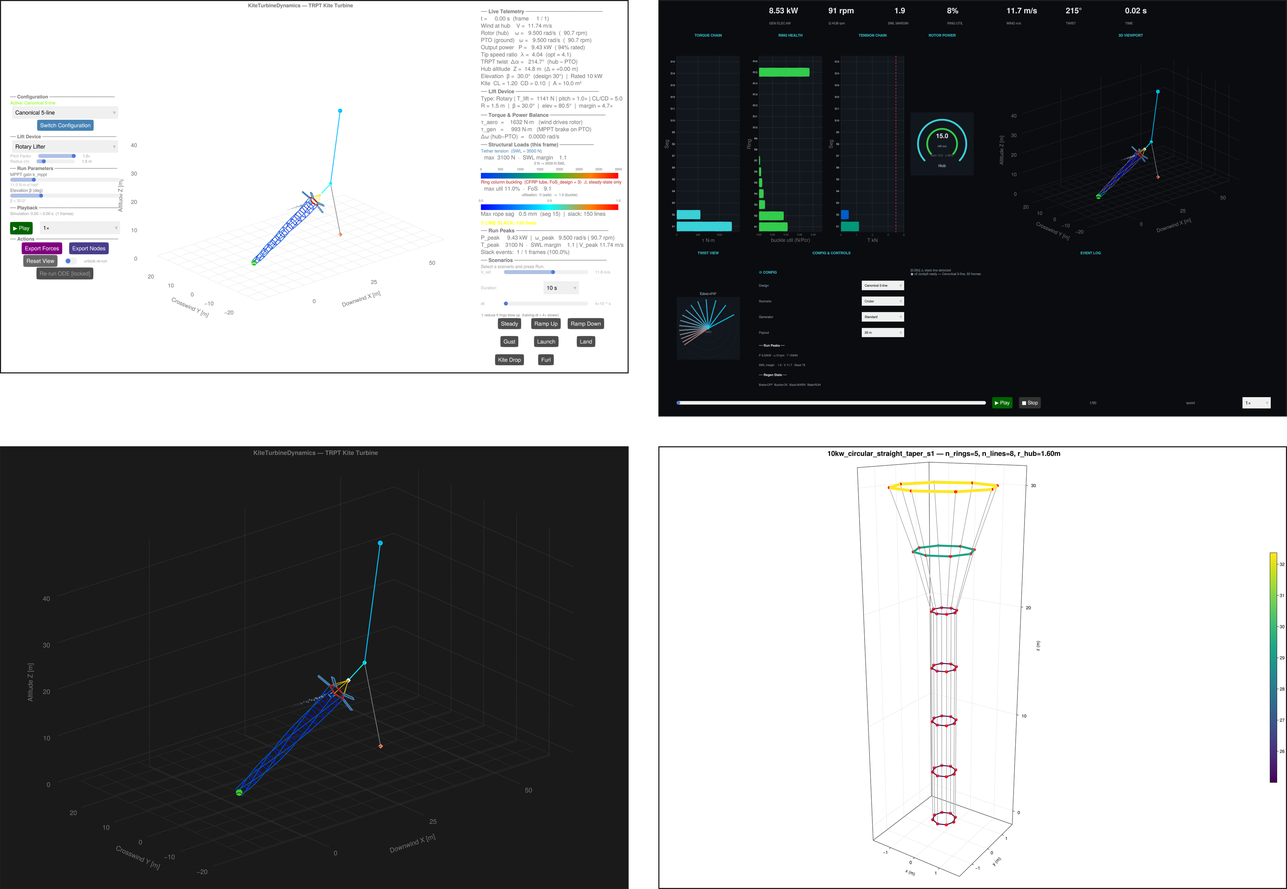
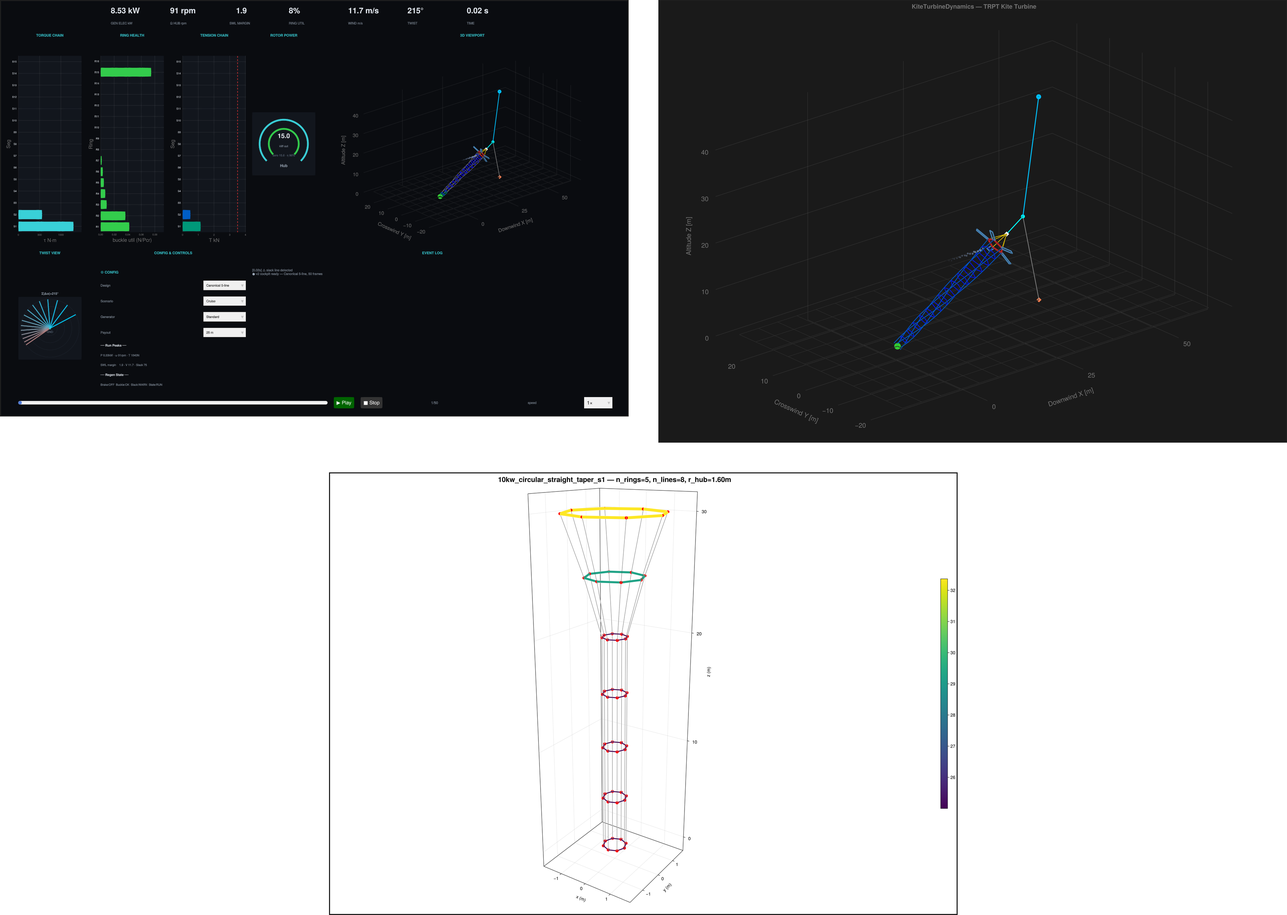
docs(reporting): the Figure 12 gallery prints three frames - the v1 dashboard leaves the plate at the founder call, because a whole window is its own writing and the reader has no use for it. The file stays in captures/ for the Figure 11 strip, and the stamp drops its row and hash. Row 1 holds the t

diff --git a/docs/reporting/figures/instrument-gallery/captures/stamp.py b/docs/reporting/figures/instrument-gallery/captures/stamp.py
@@ -1,14 +1,18 @@
 #!/usr/bin/python3
-"""stamp.py — the provenance stamp for Figure 12's four-panel instrument gallery.
+"""stamp.py — the provenance stamp for Figure 12's three-panel instrument gallery.
 
-Reads the four capture files in this directory, hashes them and the
+Reads the three capture files in this directory, hashes them and the
 renderers that made them, and writes `stamp.json` (machine) and `captures.md`
 (the line that travels with the plate). Nothing here draws.
 
-One pass at one commit: all four frames were rendered from the tree at the
+One pass at one commit: all three frames were rendered from the tree at the
 commit this stamp records, and each row carries the renderer it came from and
 that renderer's own hash, so a reader can re-run any one panel without
 re-running the others.
+
+The plate composes those frames and re-renders none of them, so a recomposition
+leaves every frame hash and the pass commit alone. Change `PASS` only when a
+frame is re-rendered.
 
 Run:
     /usr/bin/python3 docs/reporting/figures/instrument-gallery/captures/stamp.py
@@ -27,6 +31,11 @@ HERE = Path(__file__).resolve().parent
 REPO = HERE.parents[4]
 
 ERA = "post-95c385d_wind-authority"
+
+# The one render pass that produced these frame bytes. A recomposition of the
+# plate reads them and re-renders nothing, so the stamp records the pass and
+# not the tree it happens to run in; `git show 4749828` is the check.
+PASS = "4749828"
 
 # The one panel that reads a campaign row: the winner cartography decodes its
 # ring stack from this archive. It prints no value from it (the title carries
@@ -53,23 +62,15 @@ RENDERERS = {
 }
 
 # Printed geometry: box 85 x 59.89 mm, fit by the binding dimension, nothing
-# upsampled. Row 1 is v1 + v2, row 2 is the twisted-state viewport + the 3D
-# cartography, flush to 0 and 174.00 mm inside a 174 mm measure, 4 mm gutter.
+# upsampled. Row 1 is v2 + the twisted-state viewport; row 2 is the 3D
+# cartography alone, centred, because a third panel in two 85 mm columns leaves
+# one cell empty. The grid is flush to 0 and 174.00 mm inside a 174 mm measure
+# with a 4 mm gutter.
 BOX_MM = [85.0, 59.89]
 MEASURE_MM = 174.0
 GUTTER_MM = 4.0
 
 CAPTURES = {
-    "dashboard-v1-head.png": dict(
-        interface="v1 dashboard",
-        picture="whole window",
-        renderer="v1_v2",
-        px_per_unit=1.25,
-        shot="1600 x 950 logical units, saved at px_per_unit 1.25",
-        row=1,
-        flags="No flags. The defaults of render-captures-head.jl print this frame.",
-        note="byte-identical to Figure 11's member; reproduced at this commit as the re-stamp control",
-    ),
     "dashboard-v2-head.png": dict(
         interface="v2 cockpit",
         picture="whole window",
@@ -78,7 +79,10 @@ CAPTURES = {
         shot="1780 x 1180 logical units, one frame of a 1.0 s canonical run (50 frames, SAVE_EVERY 500, DT 4e-5)",
         row=1,
         flags="No flags. The defaults of render-captures-head.jl print this frame.",
-        note="byte-identical to Figure 11's member; reproduced at this commit as the re-stamp control",
+        note=(
+            "byte-identical to Figure 11's member; reproduced at this commit as "
+            "the re-stamp control. It is the set's one whole cockpit window"
+        ),
     ),
     "dashboard-twisted-state-head.png": dict(
         interface="dashboard 3D viewport, settled twisted state",
@@ -90,10 +94,10 @@ CAPTURES = {
             "device columns 613..3308. The cut lands on the measured ink boundaries, so "
             "both inside margins carry no ink and the scene prints every pixel it draws"
         ),
-        row=2,
+        row=1,
         flags=(
-            "No flags. figsize=(2037, 950) at px_per_unit 2 fixes the window, so "
-            "the ink boundaries crop-twisted-cell.py cuts on hold. The "
+            "No flags. figsize=(2037, 950) at px_per_unit 2 fixes the window. "
+            "The ink boundaries crop-twisted-cell.py cuts on hold. The "
             "build_dashboard figsize default is (1600, 950)."
         ),
         state=dict(
@@ -169,9 +173,9 @@ def fitted_mm(w_px: int, h_px: int) -> tuple[float, float, float]:
 
 
 def main() -> None:
-    head = git("rev-parse", "HEAD")
-    branch = git("rev-parse", "--abbrev-ref", "HEAD")
-    head_time = git("log", "-1", "--format=%ad", "--date=iso")
+    head = git("rev-parse", PASS)
+    branch = git("name-rev", "--name-only", "--refs=refs/heads/*", PASS).split("~")[0]
+    head_time = git("log", "-1", "--format=%ad", "--date=iso", PASS)
 
     renderers = {k: {"path": str(p.relative_to(REPO)), "sha256": sha256(p)}
                  for k, p in RENDERERS.items()}
@@ -207,8 +211,8 @@ def main() -> None:
     stamp = {
         "slug": "figure-12-instrument-gallery",
         "purpose": (
-            "The four-panel instrument gallery of Figure 12 (section 9): v1 dashboard, "
-            "v2 cockpit, dashboard twisted-state viewport, 10 kW winner cartography. "
+            "The three-panel instrument gallery of Figure 12 (section 9): v2 cockpit, "
+            "dashboard twisted-state viewport, 10 kW winner cartography. "
             "One pass, one commit."
         ),
         "head": head,
@@ -217,18 +221,18 @@ def main() -> None:
         "era": ERA,
         "reads_dataset": True,
         "dataset_note": (
-            "Three panels read no dataset at all. v1 and v2 render the 10 kW canonical "
+            "Two panels read no dataset at all. v2 renders the 10 kW canonical "
             "system from the tree (params_10kw(), settled at V = 11 m/s). The twisted-state "
             "cell renders the same system through the export script's default settle and "
             "reads no file. The cartography decodes its ring stack from elite_archive.csv "
             "and its title carries the design tag and geometry descriptors only. No panel "
-            "in the four prints a campaign result. No value in this report is read from "
+            "prints a campaign result. No value in this report is read from "
             "a panel."
         ),
         "archive_input": archive,
         "chooser_inputs": telemetry,
         "provenance_note": (
-            "Each capture names its invocation under `flags`, because one of the four does "
+            "Each capture names its invocation under `flags`, because one of the three does "
             "not print its shipped frame under the renderer's defaults: the cartography's "
             "geometry title is set by KTD_WINNER_TITLE=geometry. The twisted-state cell "
             "needs its window size fixed, so the column boundaries the crop cuts on hold. "
@@ -241,13 +245,13 @@ def main() -> None:
             "box_mm": BOX_MM,
             "measure_mm": MEASURE_MM,
             "gutter_mm": GUTTER_MM,
-            "row_1": "v1 + v2, flush from 0.00 mm",
-            "row_2": "twisted-state viewport + cartography, flush from 0.00 mm; the cell "
-                 "fits at 84.98 mm and prints 1777 px, so both rows carry an 84 px "
-                 "gutter (4.02 mm at 531 dpi)",
-            "raster": "3638 x 2514 px at 531 dpi = 174.02 x 120.26 mm. A 4.00 mm "
-                      "gutter is 83.6 px, so the grid carries 84 px and the plate "
-                      "prints 0.02 mm over the nominal measure",
+            "row_1": "v2 + the twisted-state viewport, flush from 0.00 mm",
+            "row_2": "the cartography alone at 85.00 mm, centred from 44.50 mm: a third "
+                 "panel in two 85 mm columns leaves one cell empty",
+            "raster": "3638 x 2588 px at 531 dpi = 174.02 x 123.80 mm. A 4.00 mm "
+                      "gutter is 83.6 px, so the grid carries 84 px: the plate prints "
+                      "0.02 mm over the nominal measure and 0.03 mm over the "
+                      "123.77 mm block",
             "row_heights_mm": row_h,
             "block_mm": block,
         },
@@ -258,7 +262,9 @@ def main() -> None:
     lines = [
         "# Figure 12 instrument gallery: provenance",
         "",
-        f"Rendered at `{head[:7]}` ({branch}), {head_time}. Era `{ERA}`. One pass, one commit.",
+        f"Frames rendered in one pass at `{head[:7]}` ({branch}), {head_time}. "
+        f"Era `{ERA}`. The plate composes these three frames at a later commit. "
+        "It re-renders none of them, so every hash below comes from the pass.",
         "",
         "| capture | pixels | prints | dpi | picture | sha256 |",
         "|---|---|---|---|---|---|",
@@ -291,7 +297,8 @@ def main() -> None:
     lines += [
         "",
         f"Cartography input: `{archive['path']}`. Its hash is `{archive['sha256'][:16]}...`. "
-        f"The file is tracked at the pin: {archive['tracked']}.",
+        + ("The file is tracked at the pin." if archive["tracked"]
+           else "The file is not tracked at the pin."),
         "",
         "The retired chooser frame's input set. It still sits in this directory, so "
         "its inputs stay pinned, but no panel prints from them now.",
@@ -303,7 +310,7 @@ def main() -> None:
         lines.append(f"| `{t['path']}` | `{t['sha256'][:16]}...` | {t['tracked']} |")
     lines += [
         "",
-        "The first pass ran before this kit held a tracked renderer for v1 and v2. "
+        "The first pass ran before this kit held a tracked renderer for v2. "
         "This kit carries a byte-identical copy of that renderer (`c1e7e35f...`). "
         "Each renderer named here sits in the tree from the landing commit onward. "
         "The captures directory of Figure 11 is tracked from `fa91a8e`. "
@@ -312,22 +319,32 @@ def main() -> None:
         "The chooser frame from the first pass stays in this directory. The "
         "twisted-state viewport replaced it at this seat and it prints no longer.",
         "",
+        "The v1 dashboard capture stays in this directory. It is the frame that the "
+        "Figure 11 strip prints and the re-stamp control from the first pass. This "
+        "gallery prints it no longer. A whole window is its own writing. The plate "
+        "carries the three frames that show what the report cannot say in words.",
+        "",
         "Print geometry is an 85 x 59.89 mm box. Each frame fits by the binding "
         "dimension and no panel is upsampled. A panel enters this set only above a "
-        "79 mm admission floor. Each panel prints every pixel of the picture its tool "
-        "draws. The picture column of the capture table names the picture for each panel. "
-        "In the twisted-state cell that picture is the 3D viewport. The control "
-        "and readout columns sit outside it. Row 1 holds v1 and v2 at 56.35 mm. Row 2 holds "
-        f"the viewport at 84.98 mm and the cartography at 85.00 mm. The block is {block} mm. "
-        "It sits in a 174 mm measure with a 4 mm gutter. The rows run flush from 0.00 mm.",
+        "79 mm admission floor.",
         "",
-        "Type at these widths: v1 2.17 pt, v2 2.98 pt, cartography 2.59 pt. The "
+        "Each panel prints every pixel of the picture its tool draws. The picture "
+        "column of the capture table names the picture for each panel. In the "
+        "twisted-state cell that picture is the 3D viewport. The control and readout "
+        "columns sit outside it.",
+        "",
+        "Row 1 holds v2 and the viewport, at 85.00 x 56.35 mm and 84.98 x 59.89 mm. "
+        "Row 2 holds the cartography alone at 85.00 x 59.88 mm, centred from "
+        f"44.50 mm. The block is {block} mm. It sits in a 174 mm measure with a 4 mm "
+        "gutter. Row 1 runs flush from 0.00 mm.",
+        "",
+        "Type at these widths: v2 2.98 pt, cartography 2.59 pt. The "
         "cartography title band is 43 px at 85 mm. The smallest label in the set is "
         "1.22 pt in v2. The set ceiling is v2 at 2.98 pt.",
         "",
         "Source line for the plate:",
         "",
-        f"> captures: four instrument frames at `{head[:7]}`. v1 and v2 come from "
+        f"> captures: three instrument frames at `{head[:7]}`. v2 comes from "
         f"`render-captures-head.jl`. The twisted-state cell comes from "
         f"`render-twisted-state-head.jl` and `crop-twisted-cell.py`, which renders the "
         f"canonical system at its default settle and reads no file. The cartography "

diff --git a/docs/reporting/figures/instrument-gallery/instrument-gallery.py b/docs/reporting/figures/instrument-gallery/instrument-gallery.py
@@ -1,17 +1,19 @@
 #!/usr/bin/python3
 """instrument-gallery.py - compose the Figure 12 plate at the report measure.
 
-The plate is the 2 x 2 frame grid and nothing else: no label, no rule, no type.
-It prints 1:1 at 174 mm wide on the 531 dpi grid (v2's own floor: 1780 px at
+The plate is the frame grid and nothing else: no label, no rule, no type. It
+prints 1:1 at 174 mm wide on the 531 dpi grid (v2's own floor: 1780 px at
 85 mm), so a reader who opens the PNG sees the same pixels the draft prints.
 
 Each frame keeps its natural aspect and fits an 85 x 59.89 mm cell by the
-binding dimension, which is the rule the stamp records. Row 1 is v1 and v2,
-both whole dashboard windows. Row 2 is the twisted-state 3D viewport, cut at
-measured ink boundaries, and the 3D cartography.
+binding dimension, which is the rule the stamp records. Three frames seat in
+two columns. Row 1 is v2, a whole cockpit window, and the twisted-state 3D
+viewport, cut at measured ink boundaries. Row 2 holds the cartography alone
+and centred on the measure: with two 85 mm columns a third panel leaves one
+cell empty, and a lone panel reads as one panel only when it is centred.
 
 The grid is a whole number of pixels: a 4.00 mm gutter is 83.6 px, so the
-plate carries 84 px gutters and prints 3638 x 2514 px = 174.02 x 120.26 mm.
+plate carries an 84 px gutter and prints 3638 x 2588 px = 174.02 x 123.79 mm.
 
 Run:
     /usr/bin/python3 docs/reporting/figures/instrument-gallery/instrument-gallery.py
@@ -36,11 +38,12 @@ MM = DPI / 25.4
 
 W_MM = 174.00
 CELL_W = 85.00
-ROW1_H = 56.35          # v2's aspect at 85 mm: the set's own row height
+ROW1_H = 59.89          # the viewport's height at 85 mm binds the row
 GUTTER = 4.00
 ROW2_Y = ROW1_H + GUTTER
-ROW2_H = 59.89          # the admission box height
+ROW2_H = 59.89          # the box height; the cartography prints 59.88 mm
 X2 = CELL_W + GUTTER    # 89.00, left edge of the right column
+LAST_X = (W_MM - CELL_W) / 2.0   # 44.50, the trailing row's one panel
 
 SERIF = "/usr/share/fonts/truetype/dejavu/DejaVuSerif.ttf"
 SERIF_B = "/usr/share/fonts/truetype/dejavu/DejaVuSerif-Bold.ttf"
@@ -107,10 +110,10 @@ def build() -> tuple[Image.Image, list[tuple]]:
         img.paste(im, (xx, yy))
         d.rectangle([xx, yy, xx + tw - 1, yy + th - 1], outline=(30, 30, 30), width=3)
 
-    place("dashboard-v1-head.png", 0.0, 0.0, CELL_W, ROW1_H, "v1")
-    place("dashboard-v2-head.png", X2, 0.0, CELL_W, ROW1_H, "v2")
-    place("dashboard-twisted-state-head.png", 0.0, ROW2_Y, CELL_W, ROW2_H, "twisted")
-    place("winner-10kw-cartography-head.png", X2, ROW2_Y, CELL_W, ROW2_H, "cartography")
+    place("dashboard-v2-head.png", 0.0, 0.0, CELL_W, ROW1_H, "v2")
+    place("dashboard-twisted-state-head.png", X2, 0.0, CELL_W, ROW1_H, "twisted")
+    place("winner-10kw-cartography-head.png", LAST_X, ROW2_Y, CELL_W, ROW2_H,
+          "cartography")
 
     out = HERE / "instrument-gallery.png"
     img.save(out, dpi=(DPI, DPI))

diff --git a/docs/reporting/figures/instrument-gallery/captures/captures.md b/docs/reporting/figures/instrument-gallery/captures/captures.md
@@ -1,10 +1,9 @@
 # Figure 12 instrument gallery: provenance
 
-Rendered at `4749828` (bank-derate-cos2p65), 2026-10-21 21:26:15 +0100. Era `post-95c385d_wind-authority`. One pass, one commit.
+Frames rendered in one pass at `4749828` (bank-derate-cos2p65), 2026-10-21 21:26:15 +0100. Era `post-95c385d_wind-authority`. The plate composes these three frames at a later commit. It re-renders none of them, so every hash below comes from the pass.
 
 | capture | pixels | prints | dpi | picture | sha256 |
 |---|---|---|---|---|---|
[4 lines of base64/hex data omitted]
@@ -23,12 +22,11 @@ Invocation, per capture. One frame needs a flag beyond the script defaults. The 
 
 | capture | invocation |
 |---|---|
-| `dashboard-v1-head.png` | No flags. The defaults of render-captures-head.jl print this frame. |
 | `dashboard-v2-head.png` | No flags. The defaults of render-captures-head.jl print this frame. |
-| `dashboard-twisted-state-head.png` | No flags. figsize=(2037, 950) at px_per_unit 2 fixes the window, so the ink boundaries crop-twisted-cell.py cuts on hold. The build_dashboard figsize default is (1600, 950). |
+| `dashboard-twisted-state-head.png` | No flags. figsize=(2037, 950) at px_per_unit 2 fixes the window. The ink boundaries crop-twisted-cell.py cuts on hold. The build_dashboard figsize default is (1600, 950). |
 | `winner-10kw-cartography-head.png` | KTD_WINNER_FIG_W=2000 KTD_WINNER_FIG_H=1409 KTD_WINNER_AX_W=1880 KTD_WINNER_AX_H=1330 KTD_WINNER_TITLE=geometry KTD_WINNER_OUT=<dir>. The script default is TITLE=full. |
 
-Cartography input: `scripts/results/trpt_opt_v2/10kw_circular_straight_taper_s1/elite_archive.csv`. Its hash is `aa441c837fd036a8...`. The file is tracked at the pin: True.
+Cartography input: `scripts/results/trpt_opt_v2/10kw_circular_straight_taper_s1/elite_archive.csv`. Its hash is `aa441c837fd036a8...`. The file is tracked at the pin.
 
 The retired chooser frame's input set. It still sits in this directory, so its inputs stay pinned, but no panel prints from them now.
 
@@ -38,14 +36,20 @@ The retired chooser frame's input set. It still sits in this directory, so its i
 | `scripts/results/v13_5kw_len21.2/telemetry.csv` | `8e2508fc4c695977...` | True |
 | `scripts/results/v13_5kw_len25.0/telemetry.csv` | `f3e19906f254821f...` | True |
 
-The first pass ran before this kit held a tracked renderer for v1 and v2. This kit carries a byte-identical copy of that renderer (`c1e7e35f...`). Each renderer named here sits in the tree from the landing commit onward. The captures directory of Figure 11 is tracked from `fa91a8e`. Both figures now carry their renderer.
+The first pass ran before this kit held a tracked renderer for v2. This kit carries a byte-identical copy of that renderer (`c1e7e35f...`). Each renderer named here sits in the tree from the landing commit onward. The captures directory of Figure 11 is tracked from `fa91a8e`. Both figures now carry their renderer.
 
 The chooser frame from the first pass stays in this directory. The twisted-state viewport replaced it at this seat and it prints no longer.
 
-Print geometry is an 85 x 59.89 mm box. Each frame fits by the binding dimension and no panel is upsampled. A panel enters this set only above a 79 mm admission floor. Each panel prints every pixel of the picture its tool draws. The picture column of the capture table names the picture for each panel. In the twisted-state cell that picture is the 3D viewport. The control and readout columns sit outside it. Row 1 holds v1 and v2 at 56.35 mm. Row 2 holds the viewport at 84.98 mm and the cartography at 85.00 mm. The block is 120.24 mm. It sits in a 174 mm measure with a 4 mm gutter. The rows run flush from 0.00 mm.
+The v1 dashboard capture stays in this directory. It is the frame that the Figure 11 strip prints and the re-stamp control from the first pass. This gallery prints it no longer. A whole window is its own writing. The plate carries the three frames that show what the report cannot say in words.
 
-Type at these widths: v1 2.17 pt, v2 2.98 pt, cartography 2.59 pt. The cartography title band is 43 px at 85 mm. The smallest label in the set is 1.22 pt in v2. The set ceiling is v2 at 2.98 pt.
+Print geometry is an 85 x 59.89 mm box. Each frame fits by the binding dimension and no panel is upsampled. A panel enters this set only above a 79 mm admission floor.
+
+Each panel prints every pixel of the picture its tool draws. The picture column of the capture table names the picture for each panel. In the twisted-state cell that picture is the 3D viewport. The control and readout columns sit outside it.
+
+Row 1 holds v2 and the viewport, at 85.00 x 56.35 mm and 84.98 x 59.89 mm. Row 2 holds the cartography alone at 85.00 x 59.88 mm, centred from 44.50 mm. The block is 123.77 mm. It sits in a 174 mm measure with a 4 mm gutter. Row 1 runs flush from 0.00 mm.
+
+Type at these widths: v2 2.98 pt, cartography 2.59 pt. The cartography title band is 43 px at 85 mm. The smallest label in the set is 1.22 pt in v2. The set ceiling is v2 at 2.98 pt.
 
 Source line for the plate:
 
-> captures: four instrument frames at `4749828`. v1 and v2 come from `render-captures-head.jl`. The twisted-state cell comes from `render-twisted-state-head.jl` and `crop-twisted-cell.py`, which renders the canonical system at its default settle and reads no file. The cartography comes from `render_winners_clean.jl` with `KTD_WINNER_TITLE=geometry`. Era `post-95c385d_wind-authority`. The cartography geometry reads from `trpt_opt_v2/10kw_circular_straight_taper_s1/elite_archive.csv`. No value in this report is read from a panel.
+> captures: three instrument frames at `4749828`. v2 comes from `render-captures-head.jl`. The twisted-state cell comes from `render-twisted-state-head.jl` and `crop-twisted-cell.py`, which renders the canonical system at its default settle and reads no file. The cartography comes from `render_winners_clean.jl` with `KTD_WINNER_TITLE=geometry`. Era `post-95c385d_wind-authority`. The cartography geometry reads from `trpt_opt_v2/10kw_circular_straight_taper_s1/elite_archive.csv`. No value in this report is read from a panel.

diff --git a/docs/reporting/figures/figure-map.md b/docs/reporting/figures/figure-map.md
@@ -60,7 +60,7 @@ carries the full roster around them.
 | 28 | ⟨tbd⟩ | §4.3 | The ladder failure census. The designs of the power ladder read through the current model, by rung and shaft length | `ladder-census` | R1 | `scripts/results/ladder_v13_rerun_2026-10-20.csv` (blob `74408ea1`, anchor `581d33f`). The census record (`docs/validation/2026-10-20-ladder-rerun-census.md`). NR-064, NR-065 | The register collision clears (`8a757f3`): the cartography pair moves to NR-067 and NR-068, so this row's NR-064 and NR-065 name the census alone. The aero seat signs physics, era and axis. The counts lane is signed. The plate is unblocked. One era, one population. A class column carries the reason for each cell. This plate reads the tool, not the wind. It shows what the model accepts, and it never prints a power delivery. v54 seats the caption, and the kit copies it. |
 | 29 | ⟨tbd⟩ | §3.3 | The power curve. One fixed winner across a wind sweep | `power-curve` | proposed | SPEC v2 (`cc9eaba`). The campaign winner at the declared stamp. The base `h_ref` 9.4117 m and `v_wind_ref` 11.0097 m/s. SITE_DAISY. `scratch/av_power_curve_sweep.csv` | The sweep landed: sixteen rows, hub wind 6.5 to 13.5 m/s in 0.5 steps plus the identity point, nine honest floor rejects carrying measured power and seven ok rows, one fixed gain 2.24, and 25.698468 kg on every row. The aero seat signs the physics and the axis, conditional on three items: contract 3 takes the one fixed gain and drops the bracket clause, the repeat runs before render, and the CSV header carries the gain, the commit, the probe md5 and the three site constants. The numbers seat signs the rows. Then the plate: `P_end` on y, floor rule at 5.0, every point labelled, no fit, no ceiling, and axes that call the field hub wind at 9.41 m. No seat marker until the plate clears both signatures. Check 4 evaluates at the point's own wind, because the in-run screen is ceiling-wind by design and the power available at 13.5 m/s is 1.85 times the 11 m/s value. Any caption that prints the above-rated score rise carries the mechanism: nothing feathers or limits extracted power at rated, and the torque clamp is not binding anywhere in the sweep, so the rise is the penalty charging power the machine actually makes. The generator lands (`9fef929`) with twelve checks that read the CSV before a byte draws. The register gate is cleared at `0f63f12`: NR-070 signs the sixteen window-end powers, NR-071 the score pair and the identity reproduction, NR-072 the nine/seven split. The numbers seat sets the caption row set at five, NR-015, NR-066, NR-070, NR-071 and NR-072, and NR-062 leaves it because NR-071 carries the recorded 5.31. Both repeat pairs print the same digits at recorded precision, so contract 6 carries no spread band. The torque-cap fraction stays off the plate: the CSV has no torque column, and the cubic tracking is the non-binding evidence. The re-cut landed against the final CSV at script `4bb45c9`. The manifest input reads md5 `a4e535af18da220a473db963c45ceb76`. The header carries the record contract and the caption provenance line matches the register list. The kit reads six rows, NR-046 included. That row signs the 5.0 kW floor and the 5.0 per kW squared charge the caption prints. The numbers seat's five omit it. The six is the set the plate draws. The retracted torque fraction leaves the caption at `62c4f19`. The Betz paragraph states the campaign basis in the form section 2.4 signs. The plate waits on the seating word alone. |
 | 30 | ⟨tbd⟩ | §3.5 | The power trend. Window-end power by generation, three islands, against the 5 kW floor | `machine-power-trend` | R2 | `extract-mass.csv` (`ce9c5d8`, decode `3307af6`). NR-002, NR-005, NR-006, NR-062, NR-066 | The founder call seats it at §3.5 (2026-10-21), beside row 9, so §3.5 carries two plates. The seat moved six surfaces in one pass: the draft paragraph and its seat marker, the appendix row, the appendix preamble count (eight exhibits to nine), the citation count (58 to 59 on NR-069), the kit table in `check_appendix_pins.py`, and this row. The four caption words landed at the same pass, so the caption prints `step`, `rule` and `running-best` and no `best-so-far`. The strip and this plate do not both carry the gen 10 to gen 26 story: the body keeps the shape and the gate, and the caption keeps the power fall. Pins read 9/9 and the plate bytes did not move. |
-| 31 | ⟨tbd⟩ | §9 | The instrument gallery. Four frames from the report's own tools | `instrument-gallery` | R2 | The kit `docs/reporting/figures/instrument-gallery/`: four captured frames, each hashed in `captures/stamp.json` with the renderer that drew it. Three panels render the canonical 10 kW system from the tree and read no file. The cartography reads `elite_archive.csv` for its ring stack and prints geometry only. No value in the report is read from a panel | The pass and the kit land with this row: the plate `instrument-gallery.png` at 531 dpi on a measured grid, `manifest.json`, `stamp.json` and the generated `captures.md`. The caption is seated (`27e76a1`). The section 9 seat marker and the appendix tenth exhibit wait on the author seat |
+| 31 | ⟨tbd⟩ | §9 | The instrument gallery. Three frames from the report's own tools | `instrument-gallery` | R2 | The kit `docs/reporting/figures/instrument-gallery/`: three captured frames, each hashed in `captures/stamp.json` with the renderer that drew it. Two panels render the canonical 10 kW system from the tree and read no file. The cartography reads `elite_archive.csv` for its ring stack and prints geometry only. No value in the report is read from a panel | The pass and the kit land with this row: the plate `instrument-gallery.png` at 531 dpi on a measured grid, `manifest.json`, `stamp.json` and the generated `captures.md`. The caption is seated (`27e76a1`), and it counts three (`f1b3043`). The v1 dashboard left the plate at the founder call: a whole window is its own writing. The file stays in `captures/` for Figure 11's strip. Row 1 holds v2 and the twisted-state viewport; row 2 holds the cartography alone, centred, because a third panel in two 85 mm columns leaves one cell empty. The section 9 seat marker and the appendix tenth exhibit wait on the author seat |
 
 The Order column holds the reading sequence (author seat, `e252bca`).
 
